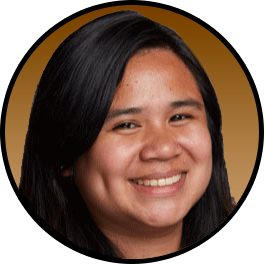
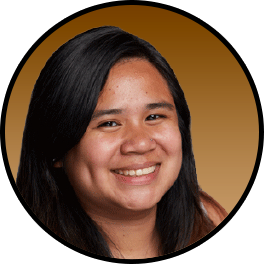
Style home page

diff --git a/public/css/style.css b/public/css/style.css
@@ -208,7 +208,7 @@ body {
   background-repeat: no-repeat;
   background-attachment: fixed;
   background-size: cover;
-  color: #000;
+  color: #352705;
   font-family: 'Yanone Kaffeesatz', sans-serif; }
 
 h1 {
@@ -237,9 +237,15 @@ p {
   width: 48.82117%;
   min-height: 500px;
   float: left;
-  opacity: 0.0; }
+  opacity: 0.0;
+  border: solid 1px red;
+  padding-left: 5em; }
   #popout:last-child {
     margin-right: 0; }
+
+#popout:not(.no-hover):hover {
+  /* only apply hover styling when the div does not have the class 'no-hover' */
+  color: red; }
 
 .content {
   float: left;
@@ -265,14 +271,17 @@ button {
   float: left;
   display: block;
   margin-right: 2.35765%;
-  width: 31.76157%; }
+  width: 31.76157%;
+  margin-right: 0em;
+  padding-left: 0.6em; }
   .profile-pic:last-child {
     margin-right: 0; }
   .profile-pic img {
     border-radius: 50%;
-    height: 90%;
-    width: 90%;
-    display: block; }
+    height: 95%;
+    width: 95%;
+    display: block;
+    opacity: 0.8; }
 
 .name {
   float: left;
@@ -282,9 +291,9 @@ button {
   .name:last-child {
     margin-right: 0; }
   .name .title {
-    font-family: 'Merienda', cursive;
-    font-size: 50px;
-    padding-top: 0.5em;
+    font-family: "HanziPen TC";
+    font-weight: 900;
+    font-size: 60px;
     padding-bottom: 0.2em;
     display: block; }
 
@@ -296,6 +305,7 @@ button {
   .home-info:last-child {
     margin-right: 0; }
   .home-info p {
+    padding-left: 0.4em;
     padding-right: 4em;
     line-height: 2em;
     font-size: 30px; }

diff --git a/public/scss/2-layouts/layout.scss b/public/scss/2-layouts/layout.scss
@@ -3,7 +3,7 @@ body {
   background-repeat: no-repeat;
   background-attachment: fixed;
   background-size: cover;
-  color: #000;
+  color: #352705;
   // font-family: Trebuchet MS,Lucida Grande,Lucida Sans Unicode,Lucida Sans,Tahoma,sans-serif;
   font-family: 'Yanone Kaffeesatz', sans-serif; 
 }
@@ -31,6 +31,12 @@ p {
   min-height: 500px;
   float: left;
   opacity: 0.0;
+  border: solid 1px red;
+  padding-left: 5em;
+}
+
+#popout:not(.no-hover):hover { /* only apply hover styling when the div does not have the class 'no-hover' */
+  color: red;
 }
 
 .content {
@@ -52,23 +58,27 @@ button {
 
 .profile-pic {
   @include span-columns(4 of 12);
+  // border: solid 3px red;
+  margin-right: 0em;
+  padding-left: 0.6em;
   
   img {
-    // border: solid 3px black;
     border-radius: 50%;
-    height: 90%;
-    width: 90%;
+    height: 95%;
+    width: 95%;
     display: block;
+    opacity: 0.8;
   }
 }
 
 .name {
   @include span-columns(8 of 12);
+  // border: solid 3px red;
 
   .title {
-    font-family: 'Merienda', cursive;
-    font-size: 50px;
-    padding-top: 0.5em;
+    font-family: "HanziPen TC";
+    font-weight: 900;
+    font-size: 60px;
     padding-bottom: 0.2em;
     display: block;
   }
@@ -78,6 +88,7 @@ button {
   @include span-columns(12 of 12);
   
   p {
+    padding-left: 0.4em;
     padding-right: 4em;
     line-height: 2em;
     font-size: 30px;

diff --git a/public/js/main.js b/public/js/main.js
@@ -13,12 +13,19 @@ $(document).ready(function () {
   $("#anml").hover(function() {
     $(".wrap").find("#popout").css({
       "opacity": "1.0", 
-      "background": "url(public/img/background.jpg) no-repeat"
+      "background": "url(public/img/anml1.png) no-repeat"
     });
   }).mouseleave(function() {
     $(".wrap").find("#popout").css({
       "opacity": "0.0" 
     })
+  });
+
+  $("#anml").click(function(e) {
+    e.preventDefault();
+    $(".wrap").find("#popout").addClass('no-hover');
+
+    console.log('hey');
   });
 
   $("#looplio").hover(function() {
